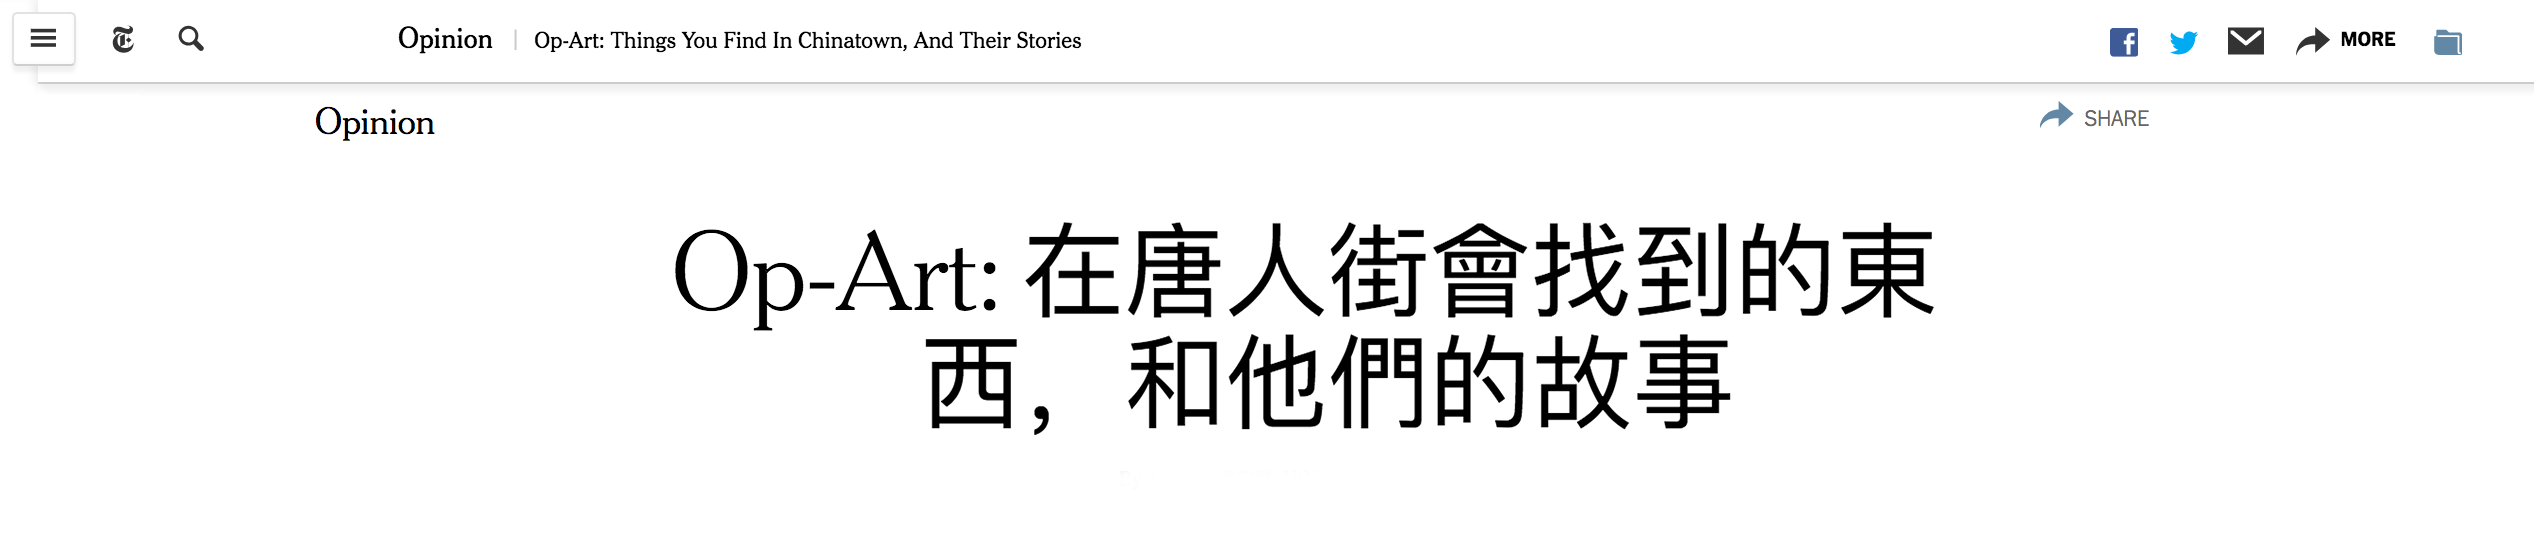
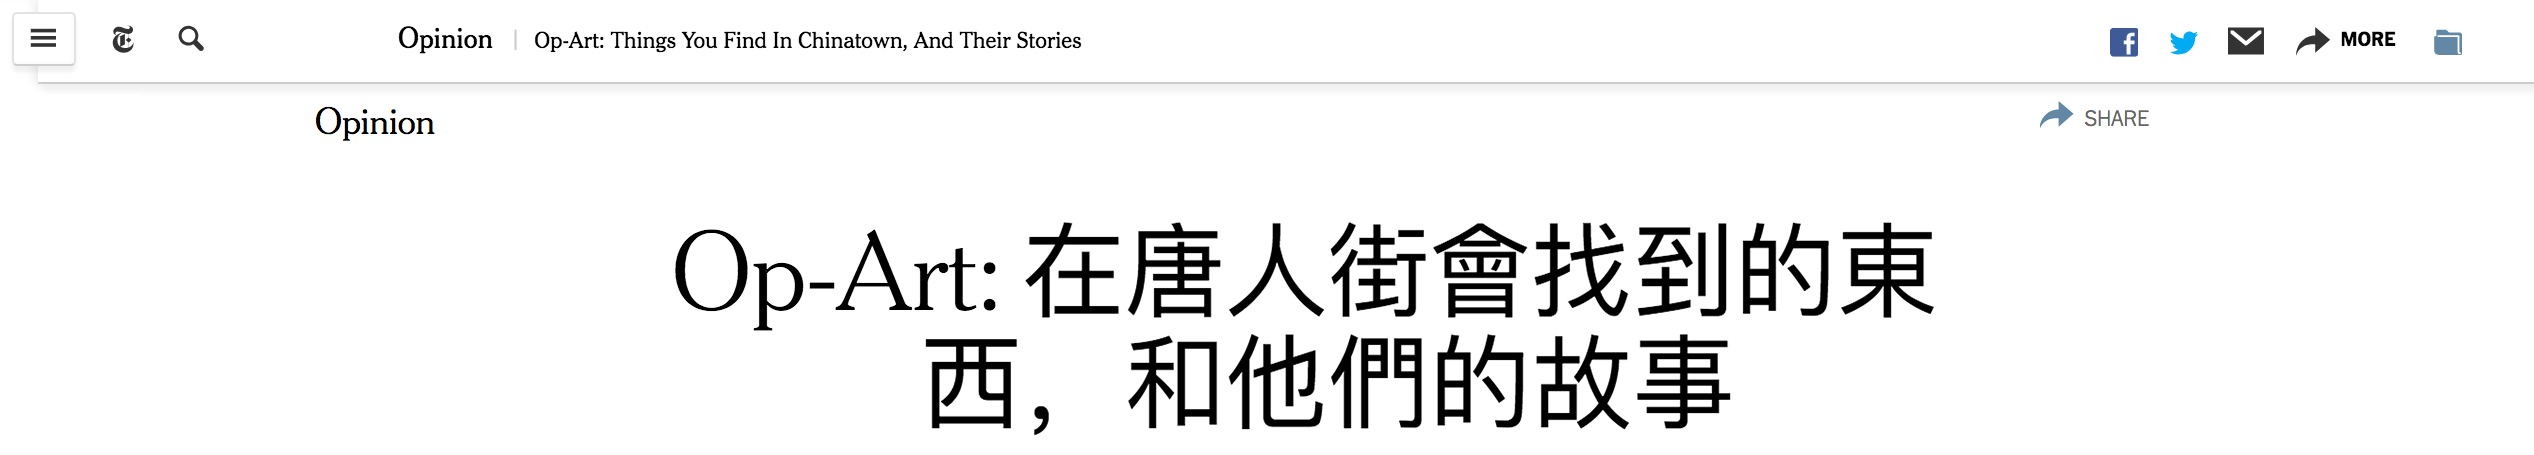
updated visual organization after LB comments, now I want to work on a new audio player with a progress bar

diff --git a/index.html b/index.html
@@ -7,6 +7,8 @@
   <link href="https://fonts.googleapis.com/css?family=Bevan|Droid+Serif" rel="stylesheet">
   <link href="https://fonts.googleapis.com/css?family=Cormorant:300i,400i,700i" rel="stylesheet">
   <link href="https://fonts.googleapis.com/css?family=Lato|Oswald" rel="stylesheet">
+  <link href="https://fonts.googleapis.com/css?family=Domine" rel="stylesheet">
+  <link href="https://fonts.googleapis.com/css?family=Nanum+Myeongjo" rel="stylesheet">
   <style>
   * {box-sizing: border-box}
   body {font-family: georgia, serif; margin:0}
@@ -50,9 +52,9 @@
   /* Caption text */
   .text {
     color: black;
-    font-size: 15px;
+    font-size: 28px;
     /*padding: 8px 12px;*/
-    padding-bottom: 4vh;
+    padding-bottom: 6vh;
     width: 100%;
     text-align: center;
   }
@@ -90,34 +92,40 @@
   	<span class="subTitle">A community-based art project bringing stories from Chinatown residents to local storefronts. Through a series of workshops with local community groups, Think!Chinatown recorded stories related to everyday objects found in Chinatown. Our hope is that these stories open a tiny window into parts of this neighborhood its communities that might be interesting or new — whether you are just visiting, or your family as been here for years.</span>
   </div>
  -->
-  <img id="englishSiteT" src="images/headerOpart3eE.png" alt="NYT header" style="width: 100vw;">
+
+<!-- Image Headers (this works) -->
+<!--   <img id="englishSiteT" src="images/headerOpart3eE2.png" alt="NYT header" style="width: 100vw;">
   <img id="cantoneseSiteT" src="images/headerOpart3eC.png" alt="NYT header" style="display: none; width: 100vw;">
-  <img id="mandarinSiteT" src="images/headerOpart3eM.png" alt="NYT header" style="display: none; width: 100vw;">
+  <img id="mandarinSiteT" src="images/headerOpart3eM.png" alt="NYT header" style="display: none; width: 100vw;"> -->
    
-<!--   <div id="englishSiteT" class="title">OpArt: Things You Find In Chinatown, And Their Stories
+  <img id="searchBar" src="images/headerOpart4e.png" alt="NYT header" style="width: 100vw;">
+
+  <div id="englishSiteT" class="title">Op-Art: Stories in Chinatown, Hiding In Plain Sight
   </div>
 
-  <div id="cantoneseSiteT" class="title" style="display: none;">OpArt: 在唐人街會找到的東西，和他們的故事
+  <div id="cantoneseSiteT" class="title" style="display: none;">Op-Art: 在唐人街會找到的東西，和他們的故事
   </div>
 
-  <div id="mandarinSiteT" class="title" style="display: none;">OpArt: 在唐人街会找到的东西，和他们的故事
-  </div> -->
+  <div id="mandarinSiteT" class="title" style="display: none;">Op-Art: 在唐人街会找到的东西，和他们的故事
+  </div>
 
   <div class="lButtons">
     <div class="lButton" id="lCanto">粵語</div>
-    <div class="lButton" id="lEng">ENGLISH</div>
+    <div class="lButton" id="lEng">ENG</div>
     <div class="lButton" id="lMando">国语</div>
   </div>
   
   <hr style="width:73vw; margin: 0 auto;">
 
-  <div id="englishSite1" class="introText" style="padding-top: 6vh; padding-bottom: 4vh;">In TK year, the population of foreign-born residents in Chinatown was TK number. Now, TK years later new businesses, real estate developments, and wealthy newcomers are shifting the cultural balance of the neighborhood. Despite Chinatown's changes, it remains a cultural hub for Chinese and Chinese Americans within the five boroughs and beyond. Inside the homes and businesses of this neighborhood, you will still find objects that tell stories about the experience of immigration and adaptation in one of Manhattan’s last, vibrant immigrant communities. Hopefuly, these objects open a tiny window into parts of Chinatown and its communities that might be interesting or new — whether someone is just visiting, or their family as been in the neighborhood for decades.
+  <img id="nyclocater" src="images/nycLocater.png" alt="Locater Map" style="padding-top: 4vh; width: 19vw; margin: 0 auto; display: block; align-content: center; ">
+
+  <div id="englishSite1" class="introText"> In TK year, the population of foreign-born residents in Chinatown was TK number. Now, TK years later new businesses, real estate developments, and wealthy newcomers are shifting the cultural balance of the neighborhood. Despite Chinatown's changes, it remains a cultural hub for Chinese and Chinese Americans within the five boroughs and beyond. Inside the homes and businesses of this neighborhood, you will still find objects that tell stories about the experience of immigration and adaptation in one of Manhattan’s last, vibrant immigrant communities. Hopefuly, these objects open a tiny window into parts of Chinatown and its communities that might be interesting or new — whether someone is just visiting, or their family as been in the neighborhood for decades.
   </div>
 
-  <div id="cantoneseSite1" class="introText" style="display: none; padding-top: 6vh; padding-bottom: 4vh;">粵語粵語粵語粵語粵語粵語粵語粵語粵語粵語粵語粵語粵語粵語粵語粵語粵語粵語粵語粵語粵語粵語粵語粵語粵語粵語粵語粵語粵語粵語粵語粵語粵語粵語粵語粵語粵語粵語粵語粵語粵語粵語粵語粵語粵語粵語粵語粵語粵語粵語粵語粵語粵語粵語粵語粵語粵語粵語粵語粵語粵語粵語粵語粵語粵語粵語粵語粵語粵語粵語粵語粵語粵語粵語粵語粵語粵語粵語粵語粵語粵語粵語粵語粵語粵語粵語粵語粵語粵語粵語粵語粵語粵語粵語粵語粵語粵語粵語粵語粵語粵語粵語粵語
+  <div id="cantoneseSite1" class="introText" style="display: none;">粵語粵語粵語粵語粵語粵語粵語粵語粵語粵語粵語粵語粵語粵語粵語粵語粵語粵語粵語粵語粵語粵語粵語粵語粵語粵語粵語粵語粵語粵語粵語粵語粵語粵語粵語粵語粵語粵語粵語粵語粵語粵語粵語粵語粵語粵語粵語粵語粵語粵語粵語粵語粵語粵語粵語粵語粵語粵語粵語粵語粵語粵語粵語粵語粵語粵語粵語粵語粵語粵語粵語粵語粵語粵語粵語粵語粵語粵語粵語粵語粵語粵語粵語粵語粵語粵語粵語粵語粵語粵語粵語粵語粵語粵語粵語粵語粵語粵語粵語粵語粵語粵語粵語
   </div>
 
-  <div id="mandarinSite1" class="introText" style="display: none; padding-top: 6vh; padding-bottom: 4vh;">国语国语国语国语国语国语国语国语国语国语国语国语国语国语国语国语国语国语国语国语国语国语国语国语国语国语国语国语国语国语国语国语国语国语国语国语国语国语国语国语国语国语国语国语国语国语国语国语国语国语国语国语国语国语国语国语国语国语国语国语国语国语国语国语国语国语国语国语国语国语国语国语国语国语国语国语国语国语国语国语国语国语国语国语国语国语国语国语国语国语国语国语国语国语国语国语国语国语国语国语国语国语国语国语国语国语国语国语国语国语国语国语国语国语国语国语国语国语国语国语国语国语国语国语国语国语国语国语国语国语国语国语国语国语国语国语国语国语国语国语国语国语国语国语国语国语国语国语国语国语国语国语国语国语国语国语国语国语国语国语国语国语国语国语
+  <div id="mandarinSite1" class="introText" style="display: none;">国语国语国语国语国语国语国语国语国语国语国语国语国语国语国语国语国语国语国语国语国语国语国语国语国语国语国语国语国语国语国语国语国语国语国语国语国语国语国语国语国语国语国语国语国语国语国语国语国语国语国语国语国语国语国语国语国语国语国语国语国语国语国语国语国语国语国语国语国语国语国语国语国语国语国语国语国语国语国语国语国语国语国语国语国语国语国语国语国语国语国语国语国语国语国语国语国语国语国语国语国语国语国语国语国语国语国语国语国语国语国语国语国语国语国语国语国语国语国语国语国语国语国语国语国语国语国语国语国语国语国语国语国语国语国语国语国语国语国语国语国语国语国语国语国语国语国语国语国语国语国语国语国语国语国语国语国语国语国语国语国语国语国语国语
   </div>
 
   <hr style="width:41vw; margin: 0 auto;">
@@ -150,21 +158,21 @@
 <div id="englishSite2">
   <div class="button" id="listenEng">LISTEN</div>
   <hr style="width:41vw; margin: 0 auto;">
-  <div class="outroText" style="padding-top: 6vh; padding-bottom: 25vh;">These objects and stories were collected through a series of workshops held with local community groups — organized by Aaron Reiss, while volunteering and working with Think!Chinatown, a local arts-based non-profit. At the end of the workshop series, the objects were displayed in street-facing windows of small businesses all over Chinatown, and passerbys could call in to hear the stories.
+  <div class="outroText">These objects and stories were collected through a series of workshops held with local community groups — organized by Aaron Reiss, while volunteering and working with Think!Chinatown, a local arts-based non-profit. At the end of the workshop series, the objects were displayed in street-facing windows of small businesses all over Chinatown, and passerbys could call in to hear the stories.
   </div>
 </div>
 
 <div id="cantoneseSite2" style="display: none;">
   <div class="button" id="listenCanto">聽一下</div>
   <hr style="width:41vw; margin: 0 auto;">
-  <div class="outroText" style="padding-top: 6vh; padding-bottom: 25vh;">粵語粵語粵語粵語粵語粵語粵語粵語粵語粵語粵語粵語粵語粵語粵語粵語粵語粵語粵語粵語粵語粵語粵語粵語粵語粵語粵語粵語粵語粵語粵語粵語粵語粵語粵語粵語粵語粵語粵語粵語粵語粵語粵語粵語粵語粵語粵語粵語粵語粵語粵語粵語粵語粵語粵語
+  <div class="outroText">粵語粵語粵語粵語粵語粵語粵語粵語粵語粵語粵語粵語粵語粵語粵語粵語粵語粵語粵語粵語粵語粵語粵語粵語粵語粵語粵語粵語粵語粵語粵語粵語粵語粵語粵語粵語粵語粵語粵語粵語粵語粵語粵語粵語粵語粵語粵語粵語粵語粵語粵語粵語粵語粵語粵語
   </div>
 </div>
 
 <div id="mandarinSite2" style="display: none;">
   <div class="button" id="listenMando">听一下</div>
   <hr style="width:41vw; margin: 0 auto;">
-  <div class="outroText" style="padding-top: 6vh; padding-bottom: 25vh;">国语国语国语国语国语国语国语国语国语国语国语国语国语国语国语国语国语国语国语国语国语国语国语国语国语国语国语国语国语国语国语国语国语国语国语国语国语国语国语国语国语国语国语国语国语国语国语国语国语国语国语国语国语国语国语国语国语国语国语国语国语国语国语国语国语国语
+  <div class="outroText">国语国语国语国语国语国语国语国语国语国语国语国语国语国语国语国语国语国语国语国语国语国语国语国语国语国语国语国语国语国语国语国语国语国语国语国语国语国语国语国语国语国语国语国语国语国语国语国语国语国语国语国语国语国语国语国语国语国语国语国语国语国语国语国语国语国语
   </div>
 </div>
  	
@@ -172,11 +180,11 @@
     <div style="display:none;" id="audioDiv"> 
         <audio id="player" controls="controls">
           <source id="audioFill" src=""/>
-          <track label="English" kind="subtitles" srclang="en" src="vtt/1listenEng.vtt" default>
-           Your browser does not support the audio element.
+         <!--  <track label="English" kind="subtitles" srclang="en" src="vtt/1listenEng.vtt" default>
+           Your browser does not support the audio element. -->
         </audio>
-        <!-- <video width="320" height="240" controls> -->
-          <!-- <source id="audioFill" src="" type="audio/mpeg"> -->
+       <!--  <video width="320" height="240" controls>
+        <source id="audioFill" src="" type="audio/mpeg"> -->
         <!-- Your browser does not support my busted-ass atempt to hack audio into a video element... 不好意思. -->
         <!-- </video> -->
     </div>
@@ -245,14 +253,26 @@
   }*/
   
   .buttons, .lButtons {
-    /*background: yellow;*/
-    margin: 0 7vw;
+    margin: 0 38vw;
     display: grid;
     grid-template-columns: 3fr 3fr 3fr;
     grid-column-gap: 10%;
     grid-column-end: 10%;
-    padding-bottom: 10vh;
+    padding-bottom: 7vh;
+    padding-top: 1vh;
     /*display: flex;*/
+  }
+
+  .outroText{
+    padding-top: 6vh; 
+    padding-bottom: 25vh;
+    font-family: georgia,"times new roman",times,serif;
+    font-size: 15px;
+    line-height: 1.5;
+    width: 40vw;
+    color: #333;
+    text-align: center;
+    margin: 0 auto;
   }
 
   .button {
@@ -272,14 +292,15 @@
   }
 
   .lButton {
-    font-size: 15pt;
+    font-size: 10pt;
     border: 1px solid black;
     text-align: center;
     font-family: georgia,"times new roman",times,serif;
     font-weight: 200;
-    padding: 2.5vh 0vw;
+    padding: 1.5vh 0vw;
     letter-spacing: 1px;
     cursor: pointer;
+    line-height: 2.5vh;
     /*display: inline-block;*/
     /*width: 33%;*/
   }
@@ -318,7 +339,7 @@
     margin: 0 auto;
   }
 
-  .introText, .outroText{
+  .introText{
     font-family: georgia,"times new roman",times,serif;
     font-size: 15px;
     line-height: 1.5;
@@ -326,6 +347,8 @@
     color: #333;
     text-align: center;
     margin: 0 auto;
+    padding-top: 1vh; 
+    padding-bottom: 8vh;
   }
 
   hr{
@@ -349,14 +372,14 @@
   .prev, .next {
     cursor: pointer;
     /*position: absolute;*/
-    top: 50%;
+    top: 54%;
     /*width: auto;*/
-    padding: 16px;
+    padding: 43px;
     margin-top: -22px;
-  /*  color: red;
+    color: white;
     font-weight: bold;
-    font-size: 18px;
-    transition: 0.6s ease;*/
+    font-size: 42px;
+    transition: 0.6s ease;
     border-radius: 0 3px 3px 0;
   }
 
@@ -370,10 +393,12 @@
   font-style: normal;
   line-height: 1.1; 
   margin: 0 auto;
-  font-size: 60px; 
-  font-family: "nyt-cheltenham",georgia,"times new roman",times,serif;
+  width: 66vw;
+  font-size: 55px; 
+  font-family: 'Nanum Myeongjo', serif;
+  /*font-family: "nyt-cheltenham",georgia,"times new roman",times,serif;*/
   text-align: center; 
-  padding-top: 6vh; 
+  padding-top: 1vh; 
   padding-bottom: 4vh;
 }
 
